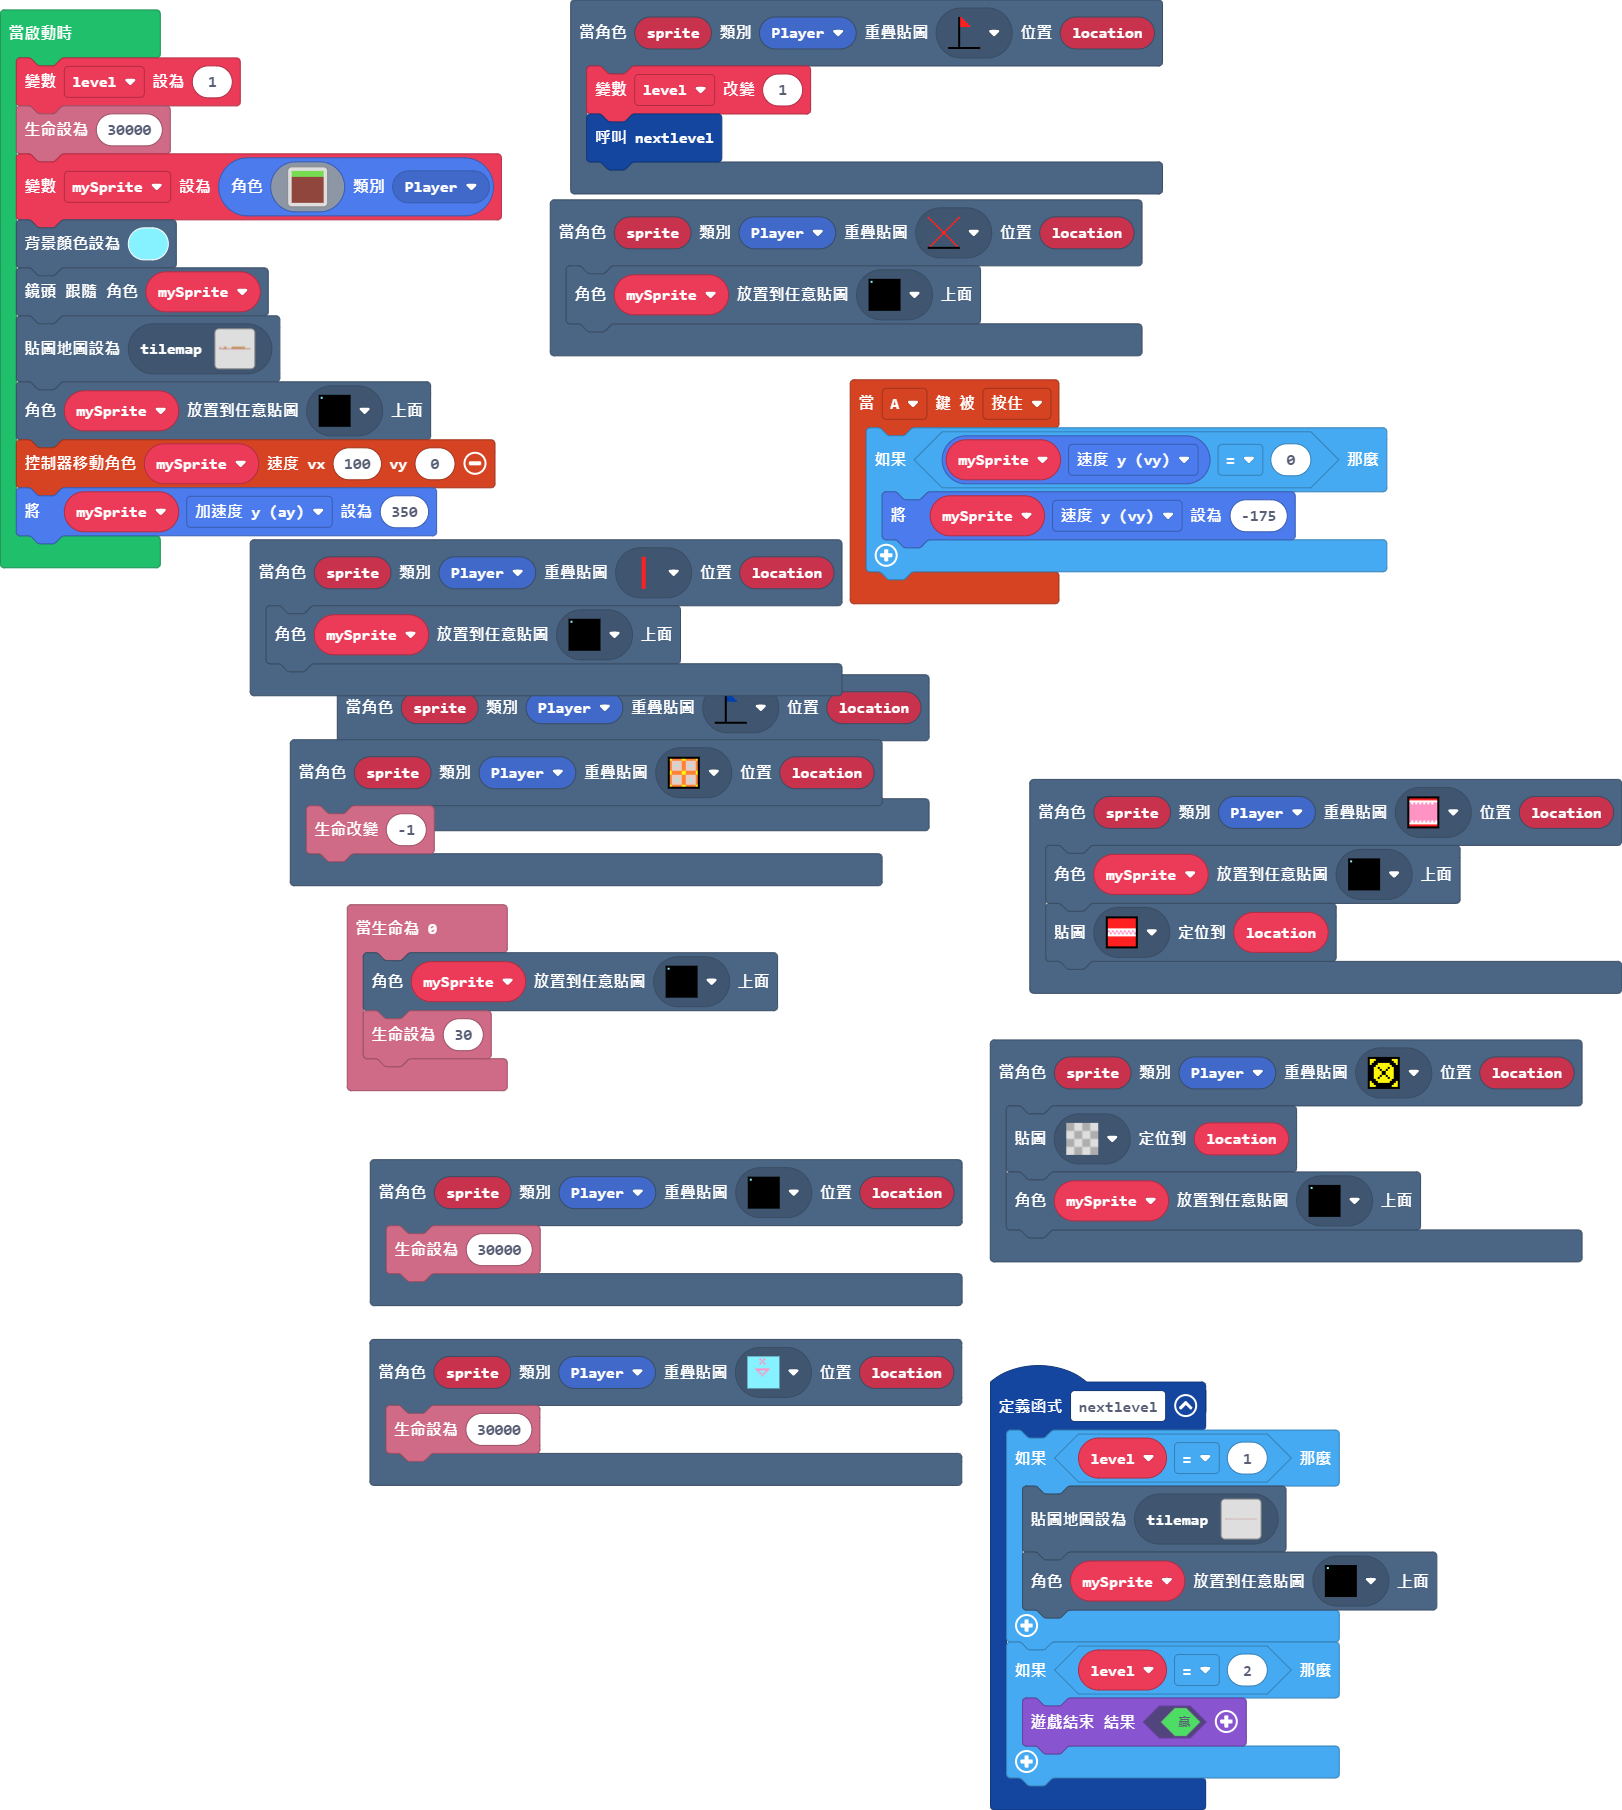
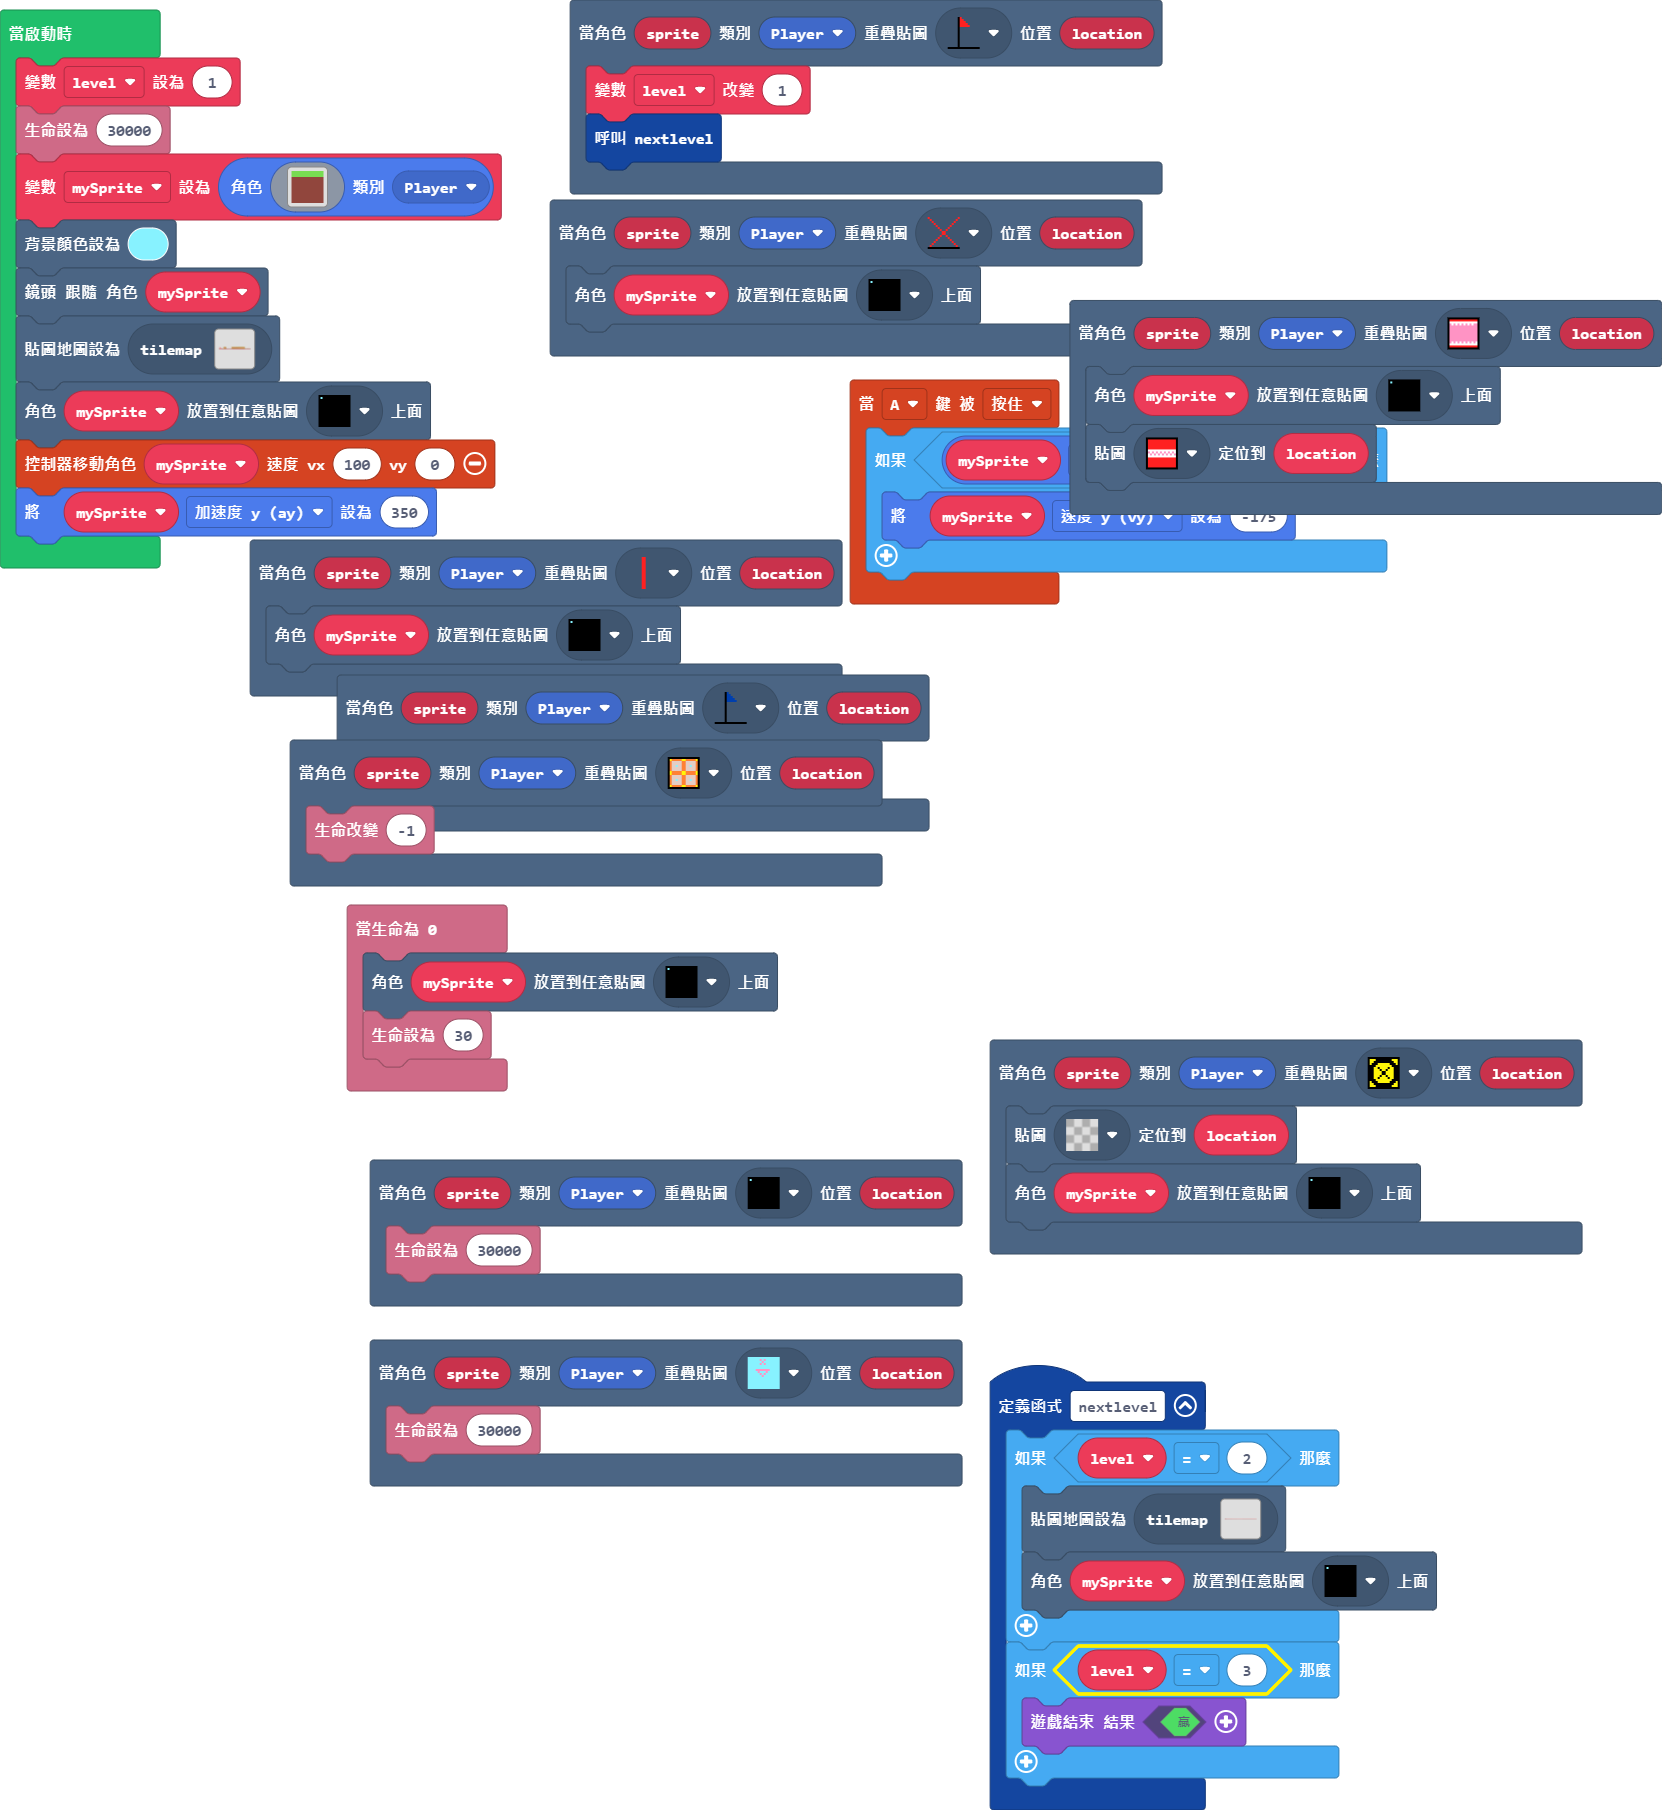
更新 main.blocks, main.ts

Changed region(s): [[0.0, 0.0, 1.0, 0.5878], [0.2158, 0.4331, 1.0, 1.0]]

diff --git a/main.ts b/main.ts
@@ -29,11 +29,11 @@ info.onLifeZero(function () {
     info.setLife(30)
 })
 function nextlevel () {
-    if (level == 1) {
+    if (level == 2) {
         tiles.setCurrentTilemap(tilemap`層級3`)
         tiles.placeOnRandomTile(mySprite, assets.tile`復活點1`)
     }
-    if (level == 2) {
+    if (level == 3) {
         game.over(true)
     }
 }
